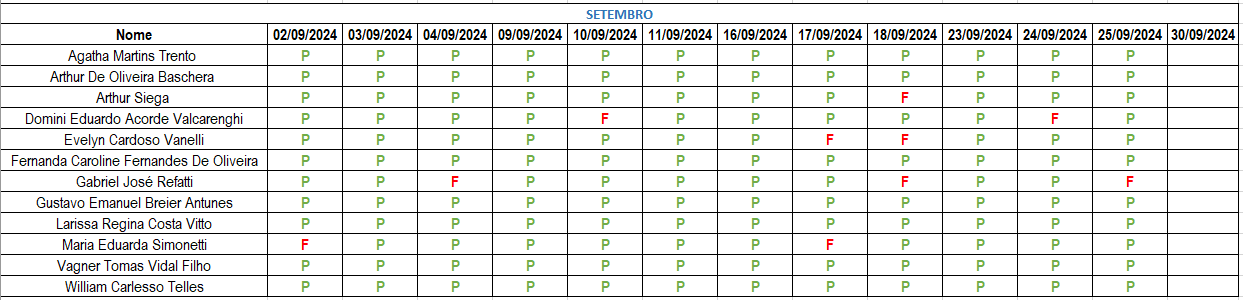
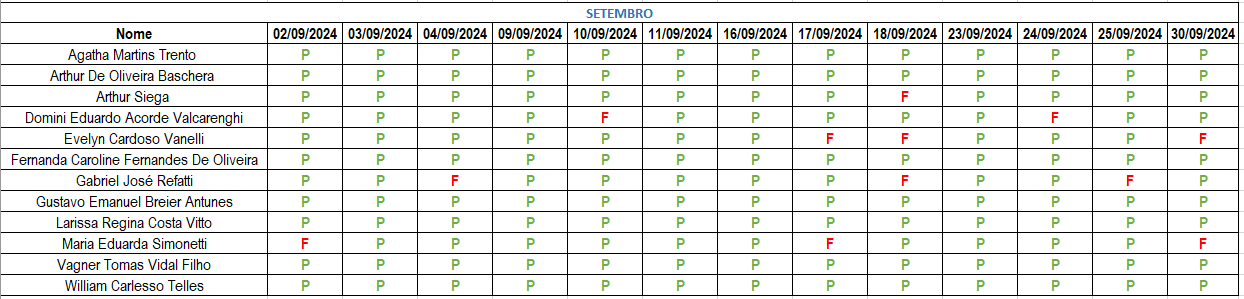
atualizado

diff --git a/readme.md b/readme.md
@@ -93,9 +93,12 @@ Gestão
 ![Lista de Presença Julho](Imagens/lista_presenca_julho.png)
 ![Lista de Presença Agosto](Imagens/lista_presenca_agosto.png)
 ![Lista de Presença Setembro](Imagens/lista_presenca_setembro.png)
+![Lista de Presença Setembro](Imagens/lista_presenca_outubro.png)
 
 # Lista de Notas
-![Notas](Imagens/Notas.png)
+![Notas](Imagens/Notas01.png)
+![Notas](Imagens/Notas02.png)
+
 
 ## Como Usar este Repositório
 
